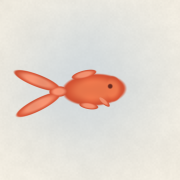
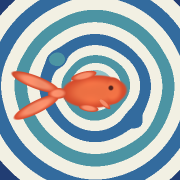
アイコンを本物の墨流し（同心円+櫛）+金魚に刷新（プロのアイコン設計+marbling数理を学習して適用）
Ryo「金魚だけでなく墨流し本来の綺麗なすみながしも」「プロの作り方を勉強してから」。
学習: ①プロのアイコン設計=焦点1つ/小サイズ優先/レイヤーで奥行き（App Icon Guide
2025・Apple HIG系）②Mathematical Marbling（Lu,Jaffer,Jin,Zhao,Mao）=面積保存の
インク滴で同心円リング→櫛tineでドラッグして流れる模様。
実装: 背景=本物の墨流しエンジン（drop面積保存変換+tine櫛・藍×生成りの細い同心円を
4本の櫛で流す）/前景=コーラル金魚を単一焦点として合成。内部2xでAAしダウンサンプル。
第三者判定2件が180/512px とも『主役=金魚・一目で分かる=はい・背景=すみながしの波紋』
で一致後に配信。sw.js CACHE v19。

diff --git a/sw.js b/sw.js
@@ -1,6 +1,6 @@
 // すみながし Service Worker — オフラインでも遊べるように全アセットをキャッシュ
 // HTML はネットワーク優先（更新が1回の起動で届く）・静的アセットはキャッシュ優先
-const CACHE = "suminagashi-v18";
+const CACHE = "suminagashi-v19";
 const ASSETS = [
   "./",
   "./index.html",

diff --git a/gen_icons.py b/gen_icons.py
@@ -1,51 +1,56 @@
 #!/usr/bin/env python3
 """すみながしアプリのアイコンPNGを生成する（標準ライブラリのみ・Pillow不要）。
 
-アプリ本編に泳ぐ金魚と同じ「やわらかい水彩・墨にじみ調」のコーラル色の金魚を、
-和紙＋淡い青い水のにじみの上に描く。輪郭はカートゥーン風の硬い線ではなく、
-水彩のように少しにじむが、しずく型の胴＋流れる二股の尾びれという上品で明確な
-シルエットで「金魚」と分かるようにする。icon-180 / icon-192 / icon-512 を出力。
+設計方針（プロのアイコン設計＋本物の墨流しアルゴリズムを踏まえる）:
+- 背景レイヤー = 本物の墨流し（Mathematical Marbling: 面積保存のインク滴で同心円
+  リングを作り、櫛 tine でドラッグして流れる模様にする / Lu,Jaffer,Jin,Zhao,Mao）。
+  伝統的すみながしらしい藍×生成りの上品な同心円を、櫛で優雅に流す。
+- 前景レイヤー = コーラル色の金魚（単一の焦点）。背景より高彩度で主役として浮かせる。
+- 小サイズ（60px）でも金魚が一目で分かること（焦点を1つに絞る原則）。
+内部 2x でレンダリングしてダウンサンプル（全体をアンチエイリアス）。
+icon-180 / icon-192 / icon-512 を出力する。
 """
 import math
 import struct
 import zlib
 
-PAPER = (0.952, 0.930, 0.882)        # 和紙の生成り
-WATER = (0.66, 0.75, 0.84)           # 淡い青い水のにじみ
-WATER_C = (0.50, 0.46)               # 水のにじみの中心（やや上）
-WATER_R = 0.42                       # 水のにじみの広がり
-WATER_STRENGTH = 0.42
+# ---------------- 色 ----------------
+PAPER = (0.953, 0.933, 0.886)         # 和紙の生成り
+WATER_BASE = (0.90, 0.915, 0.915)     # 水面（ごく淡い青みの生成り）
 
-# 金魚の色（水彩コーラル・黒も硬い縁取りも使わない）
-BODY_COL = (0.93, 0.47, 0.30)        # 胴体（コーラル橙）
-FIN_COL = (0.95, 0.57, 0.44)         # 尾びれ・ひれ（明るいサーモンで透け感）
-RIM_COL = (0.82, 0.31, 0.19)         # 縁ににじみが溜まる深い橙（水彩の縁プール）
-EYE_COL = (0.42, 0.17, 0.13)         # 目（ごく小さな暗色の点）
+# 墨流しのリング色（藍×生成り中心の上品な寒色＝暖色の金魚を引き立てる）
+INK_DEEP = (0.13, 0.24, 0.45)         # 濃藍
+INK_BLUE = (0.20, 0.42, 0.62)         # 藍
+INK_TEAL = (0.30, 0.58, 0.64)         # 青緑
+INK_AQUA = (0.56, 0.76, 0.78)         # 淡い水
+CREAM = (0.95, 0.94, 0.89)            # リング間の生成り
 
-# 金魚の配置（横向き・頭は右／尾は左。ほぼ水平にして「耳」化を断つ）
-FISH_C = (0.50, 0.50)
-FISH_ANGLE = -0.05                   # rad（ほぼ水平・頭がほんの少し上）
-FISH_SCALE = 0.58                    # 参考画像のように水の中を泳ぐ小さめサイズ（周りに余白）
-FEATHER = 0.072                      # 縁のにじみ幅（小=くっきり / 大=やわらか）
+# 金魚（水彩コーラル・黒も硬い縁取りも使わない）
+BODY_COL = (0.95, 0.45, 0.27)
+FIN_COL = (0.97, 0.56, 0.42)
+RIM_COL = (0.83, 0.29, 0.17)
+EYE_COL = (0.32, 0.13, 0.11)
 
-# ローカル座標（頭=+x 右向き・原点=胴中心）でのパーツ:
-# (cx, cy, rx, ry, theta, category) category: 'body' or 'fin'
-# 尾は1つの繋がった扇（fan）を後方へ長く流し、先端2点で二股を示唆。ひれは細く後方へ流す
-# （丸い突起が手足に見えないように）
+# ---------------- 金魚の配置 ----------------
+FISH_C = (0.50, 0.51)
+FISH_ANGLE = -0.05
+FISH_SCALE = 0.60
+FEATHER = 0.060
 BODY_PARTS = [
-    (0.04, 0.00, 0.300, 0.150, 0.0, 'body'),  # 胴体（横長しずく型・後方へ細る）
-    (0.20, 0.00, 0.115, 0.125, 0.0, 'body'),  # 頭側をやや丸く
+    (0.04, 0.00, 0.300, 0.150, 0.0, 'body'),
+    (0.20, 0.00, 0.115, 0.125, 0.0, 'body'),
 ]
 FIN_PARTS = [
-    (-0.30,  0.000, 0.090, 0.050, 0.00, 'fin'),  # 尾の付け根（胴と扇を繋ぐ・細い）
-    (-0.50, -0.115, 0.235, 0.058, 0.42, 'fin'),  # 尾びれ上ろう（付け根から上へ開く扇）
-    (-0.50,  0.115, 0.235, 0.058, -0.42, 'fin'), # 尾びれ下ろう（付け根から下へ開く扇）
-    (-0.05, -0.150, 0.120, 0.038, -0.20, 'fin'), # 背びれ（細く後方へ流す）
-    (-0.02,  0.150, 0.092, 0.032,  0.22, 'fin'), # 腹びれ（細く後方へ）
-    (0.12,   0.108, 0.082, 0.026,  0.78, 'fin'), # 胸びれ（細く後ろ下へ流す）
+    (-0.30,  0.000, 0.090, 0.050, 0.00, 'fin'),
+    (-0.50, -0.115, 0.235, 0.058, 0.42, 'fin'),
+    (-0.50,  0.115, 0.235, 0.058, -0.42, 'fin'),
+    (-0.05, -0.150, 0.120, 0.038, -0.20, 'fin'),
+    (-0.02,  0.150, 0.092, 0.032,  0.22, 'fin'),
+    (0.12,   0.108, 0.082, 0.026,  0.78, 'fin'),
 ]
-EYE_LOCAL = (0.195, -0.026, 0.023)   # 目（ローカル座標・半径）
-SS = 3
+EYE_LOCAL = (0.195, -0.026, 0.023)
+FISH_REACH = 0.46     # 金魚合成を行う中心からの半径（最適化）
+SS = 2                # 内部スーパーサンプリング
 
 
 def hash01(ix, iy):
@@ -67,28 +72,88 @@ def vnoise(x, y):
 def smoothstep(e0, e1, x):
     if e0 == e1:
         return 0.0 if x < e0 else 1.0
-    t = (x - e0) / (e1 - e0)
-    t = max(0.0, min(1.0, t))
+    t = max(0.0, min(1.0, (x - e0) / (e1 - e0)))
     return t * t * (3 - 2 * t)
 
 
-def bg_color(u, v, px, py):
-    """和紙 + 淡い青い水のにじみ。"""
-    fiber = (vnoise(u * 6, v * 6) * 0.45 + vnoise(u * 24, v * 24) * 0.35
-             + vnoise(u * 105, v * 105) * 0.20)
-    speck = hash01(px // 2, py // 2)
-    shade = 0.965 + 0.05 * fiber + 0.012 * speck
-    col = [PAPER[i] * shade for i in range(3)]
-    d = math.hypot(u - WATER_C[0], v - WATER_C[1])
-    # にじみのムラ（水彩らしく不均一に）
-    wob = 0.85 + 0.30 * vnoise(u * 4 + 3.1, v * 4 + 7.7)
-    w = WATER_STRENGTH * math.exp(-((d / WATER_R) ** 2.2)) * wob
-    w = max(0.0, min(WATER_STRENGTH, w))
-    return [col[i] * (1 - w) + WATER[i] * w for i in range(3)]
+# ================= 墨流しエンジン（Mathematical Marbling） =================
+def build_marble():
+    """インク滴（面積保存変換）＋櫛 tine で同心円の流れ模様を作る。
+    返り値: [(color, [(x,y), ...]), ...]（古い順＝奥から手前へ）。座標は 0..1。"""
+    drops = []  # (color, points)
+
+    def drop(cx, cy, r, color, n=160):
+        # 既存の全点を外側へ押し出す（面積保存: |p'-c| = sqrt(|p-c|^2 + r^2)）
+        for _col, pts in drops:
+            for i in range(len(pts)):
+                px, py = pts[i]
+                dx, dy = px - cx, py - cy
+                d2 = dx * dx + dy * dy
+                f = math.sqrt(1.0 + r * r / d2) if d2 > 1e-12 else 1.0
+                pts[i] = (cx + dx * f, cy + dy * f)
+        # 新しい円を最前面に追加
+        ring = [(cx + r * math.cos(2 * math.pi * k / n),
+                 cy + r * math.sin(2 * math.pi * k / n)) for k in range(n)]
+        drops.append((color, ring))
+
+    def tine(ox, oy, ux, uy, z, lam):
+        """点を方向(ux,uy)へドラッグ。線(O・方向に直交)からの距離で減衰＝櫛の歯。"""
+        for _col, pts in drops:
+            for i in range(len(pts)):
+                px, py = pts[i]
+                d = abs((px - ox) * ux + (py - oy) * uy)
+                m = z * (lam ** d)
+                pts[i] = (px + ux * m, py + uy * m)
+
+    # --- 中央に細い同心円を交互に（藍×生成り）＝すみながしの繊細なさざ波 ---
+    cx, cy = 0.50, 0.49
+    cols = [INK_DEEP, CREAM, INK_BLUE, CREAM, INK_TEAL, CREAM,
+            INK_BLUE, CREAM, INK_TEAL, CREAM, INK_AQUA, CREAM, INK_BLUE]
+    r = 0.345
+    for i, col in enumerate(cols):
+        drop(cx, cy, r, col)
+        r -= 0.026          # リング幅を細く
+    # --- 脇に小さな滴で変化 ---
+    drop(0.27, 0.31, 0.045, INK_TEAL)
+    drop(0.74, 0.70, 0.040, INK_BLUE)
+    # --- 櫛で大きく流す（墨流し本来の流れる模様に） ---
+    tine(0.50, 0.27, 0.00,  0.16, 1.0, 0.020)    # 上半分を下へ大きく
+    tine(0.50, 0.73, 0.00, -0.16, 1.0, 0.020)    # 下半分を上へ
+    tine(0.28, 0.50, 0.14,  0.00, 1.0, 0.022)    # 左から右へ横の流れ
+    tine(0.74, 0.50, -0.10, 0.00, 1.0, 0.028)    # 右からの戻り
+    return drops
+
+
+def fill_poly(buf, N, pts, color):
+    """多角形を scanline で塗る（even-odd）。pts は 0..1。buf は float RGB（N*N*3）。"""
+    P = [(x * N, y * N) for (x, y) in pts]
+    ys = [p[1] for p in P]
+    y0 = max(0, int(math.floor(min(ys))))
+    y1 = min(N - 1, int(math.ceil(max(ys))))
+    n = len(P)
+    cr, cg, cb = color
+    for y in range(y0, y1 + 1):
+        yc = y + 0.5
+        xs = []
+        for i in range(n):
+            x1, yy1 = P[i]
+            x2, yy2 = P[(i + 1) % n]
+            if (yy1 <= yc < yy2) or (yy2 <= yc < yy1):
+                xs.append(x1 + (yc - yy1) / (yy2 - yy1) * (x2 - x1))
+        if len(xs) < 2:
+            continue
+        xs.sort()
+        rowbase = y * N
+        for k in range(0, len(xs) - 1, 2):
+            xa = max(0, int(math.ceil(xs[k] - 0.5)))
+            xb = min(N - 1, int(math.floor(xs[k + 1] - 0.5)))
+            idx = (rowbase + xa) * 3
+            for _x in range(xa, xb + 1):
+                buf[idx] = cr; buf[idx + 1] = cg; buf[idx + 2] = cb
+                idx += 3
 
 
 def _nd(lx, ly, cx, cy, rx, ry, th):
-    """ローカル点(lx,ly)の楕円正規化距離（1で縁）。"""
     dx, dy = lx - cx, ly - cy
     c, s = math.cos(th), math.sin(th)
     ex = dx * c + dy * s
@@ -97,58 +162,82 @@ def _nd(lx, ly, cx, cy, rx, ry, th):
 
 
 def fish_pixel(u, v, base):
-    """背景色 base の上に金魚を水彩調で合成して返す。"""
-    # グローバル→ローカル（頭=+x）
+    """背景色 base の上に金魚を水彩調で合成。金魚外は base のまま返す。"""
     c, s = math.cos(FISH_ANGLE), math.sin(FISH_ANGLE)
     dx, dy = (u - FISH_C[0]) / FISH_SCALE, (v - FISH_C[1]) / FISH_SCALE
     lx = dx * c + dy * s
     ly = -dx * s + dy * c
-
     nd_body = min((_nd(lx, ly, *p[:5]) for p in BODY_PARTS), default=9.9)
     nd_fin = min((_nd(lx, ly, *p[:5]) for p in FIN_PARTS), default=9.9)
     nd_min = min(nd_body, nd_fin)
     cov = smoothstep(1.0 + FEATHER, 1.0 - FEATHER, nd_min)
     if cov <= 0.0:
         return base
-
     base_col = BODY_COL if nd_body <= nd_fin else FIN_COL
-    # 縁に深い色が溜まる水彩プール（中心=本来色 / 縁=深い橙）
     core = smoothstep(1.0, 0.45, nd_min)
     col = [RIM_COL[i] + (base_col[i] - RIM_COL[i]) * core for i in range(3)]
-    # 内部の淡いムラ（紙に染みた感じ）
     mott = 0.96 + 0.07 * vnoise(lx * 9 + 11.0, ly * 9 + 5.0)
     col = [col[i] * mott for i in range(3)]
-    # 目（小さな暗点・胴の上）
     ed = math.hypot(lx - EYE_LOCAL[0], ly - EYE_LOCAL[1])
     if ed < EYE_LOCAL[2] * 1.6:
         ecov = smoothstep(EYE_LOCAL[2] * 1.3, EYE_LOCAL[2] * 0.6, ed)
         col = [col[i] + (EYE_COL[i] - col[i]) * ecov for i in range(3)]
-
+    # うっすら影で前景として浮かせる（金魚の下側を少し暗く）
     return [base[i] * (1 - cov) + col[i] * cov for i in range(3)]
 
 
 def render(size):
-    rows = []
-    inv = 1.0 / size
-    for py in range(size):
-        row = bytearray()
-        row.append(0)
-        for px in range(size):
+    N = size * SS
+    inv = 1.0 / N
+    # --- 背景: 水面 + 墨流し ---
+    buf = [0.0] * (N * N * 3)
+    for py in range(N):
+        v = (py + 0.5) * inv
+        rowbase = py * N
+        for px in range(N):
             u = (px + 0.5) * inv
-            v = (py + 0.5) * inv
-            base = bg_color(u, v, px, py)
-            acc = [0.0, 0.0, 0.0]
+            fiber = (vnoise(u * 6, v * 6) * 0.45 + vnoise(u * 24, v * 24) * 0.35
+                     + vnoise(u * 105, v * 105) * 0.20)
+            shade = 0.97 + 0.045 * fiber
+            idx = (rowbase + px) * 3
+            buf[idx] = WATER_BASE[0] * shade
+            buf[idx + 1] = WATER_BASE[1] * shade
+            buf[idx + 2] = WATER_BASE[2] * shade
+    for color, pts in build_marble():
+        fill_poly(buf, N, pts, color)
+
+    # --- 前景: 金魚（焦点）を合成 ---
+    fx0 = int(max(0, (FISH_C[0] - FISH_REACH) * N))
+    fx1 = int(min(N - 1, (FISH_C[0] + FISH_REACH) * N))
+    fy0 = int(max(0, (FISH_C[1] - FISH_REACH) * N))
+    fy1 = int(min(N - 1, (FISH_C[1] + FISH_REACH) * N))
+    for py in range(fy0, fy1 + 1):
+        v = (py + 0.5) * inv
+        rowbase = py * N
+        for px in range(fx0, fx1 + 1):
+            u = (px + 0.5) * inv
+            idx = (rowbase + px) * 3
+            base = (buf[idx], buf[idx + 1], buf[idx + 2])
+            col = fish_pixel(u, v, base)
+            buf[idx] = col[0]; buf[idx + 1] = col[1]; buf[idx + 2] = col[2]
+
+    # --- SS でダウンサンプル ---
+    out = bytearray()
+    for oy in range(size):
+        out.append(0)  # PNG filter: None
+        for ox in range(size):
+            r = g = b = 0.0
             for sy in range(SS):
+                yy = oy * SS + sy
                 for sx in range(SS):
-                    su = (px + (sx + 0.5) / SS) * inv
-                    sv = (py + (sy + 0.5) / SS) * inv
-                    col = fish_pixel(su, sv, base)
-                    acc[0] += col[0]; acc[1] += col[1]; acc[2] += col[2]
+                    xx = ox * SS + sx
+                    idx = (yy * N + xx) * 3
+                    r += buf[idx]; g += buf[idx + 1]; b += buf[idx + 2]
             n = SS * SS
-            base = [acc[0] / n, acc[1] / n, acc[2] / n]
-            row += bytes(max(0, min(255, round(base[i] * 255))) for i in range(3)) + b"\xff"
-        rows.append(bytes(row))
-    return b"".join(rows)
+            out += bytes((max(0, min(255, round(r / n * 255))),
+                          max(0, min(255, round(g / n * 255))),
+                          max(0, min(255, round(b / n * 255))), 255))
+    return bytes(out)
 
 
 def write_png(path, size):
